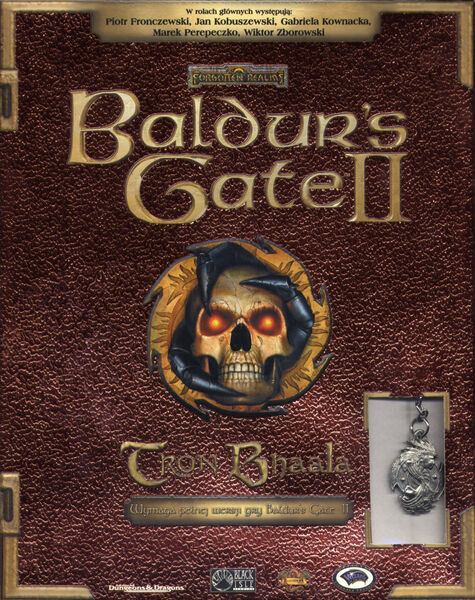
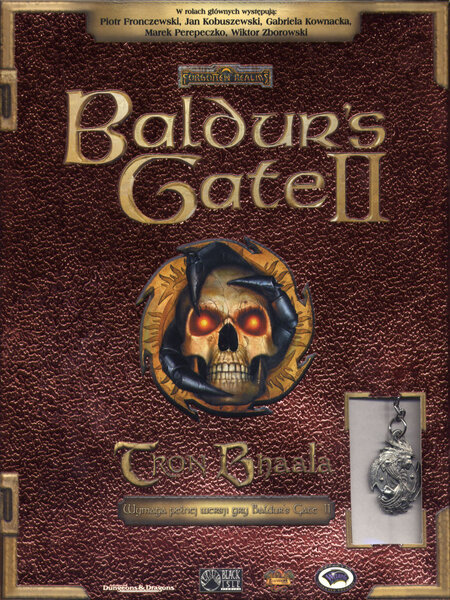
Covers resized for better fit, hyperlinks & additional styling added

diff --git a/index.html b/index.html
@@ -35,7 +35,7 @@
       </div>
     </section>
     <section class="game" data-aos="fade-right">
-      <img src="./img/torm.jpg" alt="">
+      <a href=""><img src="./img/torm.jpg" alt=""></a>
       <div class="game-text">
         <h3>Planescape Torment</h3>
         <h5>(1999.12.12)</h5>
@@ -44,7 +44,7 @@
       </div>
     </section>
     <section class="game" data-aos="fade-left">
-      <img src="./img/id-I.jpg" alt="">
+      <a href=""><img src="./img/id-I.jpg" alt=""></a>
       <div class="game-text">
         <h3>Icewind Dale</h3>
         <h5>(2000.06.29)</h5>
@@ -53,7 +53,7 @@
       </div>
     </section>
     <section class="game" data-aos="fade-right">
-      <img src="./img/bg-II.jpg" alt="">
+      <a href=""><img src="./img/bg-II.jpg" alt=""></a>
       <div class="game-text">
         <h3>Baldur's Gate II 
          <br>Shadows of Amn</h3>
@@ -63,7 +63,7 @@
       </div>
     </section>
     <section class="game">
-      <img src="./img/id-I-heart.jpg" alt="">
+      <a href=""><img src="./img/id-I-heart.jpg" alt=""></a>
       <div class="game-text">
         <h3>Icewind Dale 
          <br>Heart of Winter</h3>
@@ -73,7 +73,7 @@
       </div>
     </section>
     <section class="game">
-      <img src="./img/bg-II-htrone.jpg" alt="">
+      <a href=""><img src="./img/bg-II-htrone.jpg" alt=""></a>
       <div class="game-text">
         <h3>Baldur's Gate II 
          <br>Throne of Baal</h3>
@@ -83,7 +83,7 @@
       </div>
     </section>
     <section class="game">
-      <img src="./img/acranum.jpg" alt="">
+      <a href=""><img src="./img/acranum.jpg" alt=""></a>
       <div class="game-text">
         <h3>Arcanum</h3>
         <h5>(2001.08.21)</h5>
@@ -92,7 +92,7 @@
       </div>
     </section>
     <section class="game">
-      <img src="./img/pool.jpg" alt="">
+      <a href=""><img src="./img/pool.jpg" alt=""></a>
       <div class="game-text">
         <h3>Pool of Radiance 
          <br>Ruins of Myth Drannor</h3>
@@ -102,7 +102,7 @@
       </div>
     </section>
     <section class="game">
-      <img src="./img/id-II.jpg" alt="">
+      <a href=""><img src="./img/id-II.jpg" alt=""></a>
       <div class="game-text">
         <h3>Icewind Dale II</h3>
         <h5>(2002.08.27)</h5>
@@ -111,7 +111,7 @@
       </div>
     </section>
     <section class="game">
-      <img src="./img/temple.jpg" alt="">
+      <a href=""><img src="./img/temple.jpg" alt=""></a>
       <div class="game-text">
         <h3>The Temple of 
          <br>Elemental Evil</h3>

diff --git a/css/main.css b/css/main.css
@@ -110,8 +110,13 @@ body .wrapper .game {
           box-shadow: 5px 5px 15px 0 rgba(0, 0, 0, 0.75);
 }
 
+body .wrapper .game a {
+  padding: 1.2rem 1rem 1rem 1.2rem;
+}
+
 body .wrapper .game img {
   max-width: 400px;
+  max-height: 520px;
   -webkit-transition: all 0.5s ease-in;
   transition: all 0.5s ease-in;
 }

diff --git a/scss/main.scss b/scss/main.scss
@@ -49,9 +49,14 @@ body {
       background-color: $secondary-color;
       max-width: 1080px;
       box-shadow: $shadow;
+
+      a {
+        padding: 1.2rem 1rem 1rem 1.2rem;
+      }
     
       img {
         max-width: 400px;
+        max-height: 520px;
         transition: all 0.5s ease-in;
         
 
